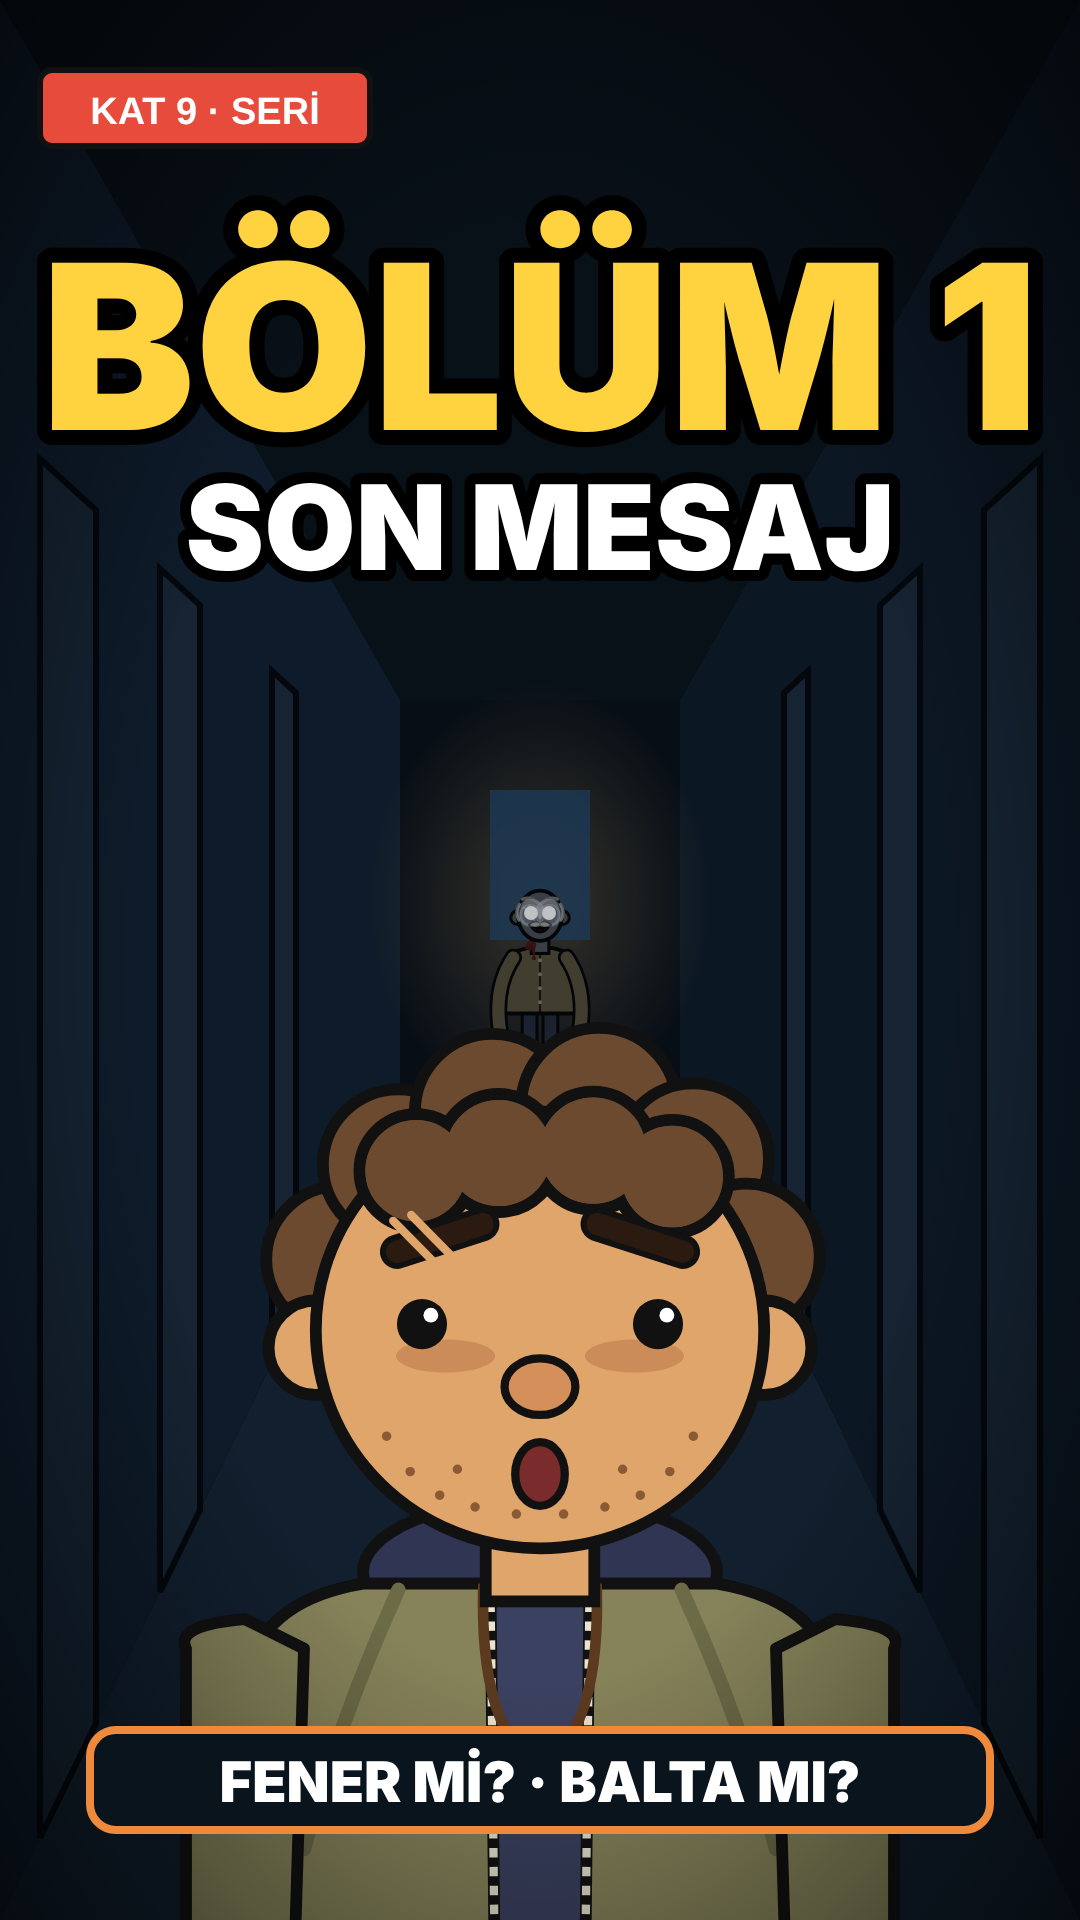
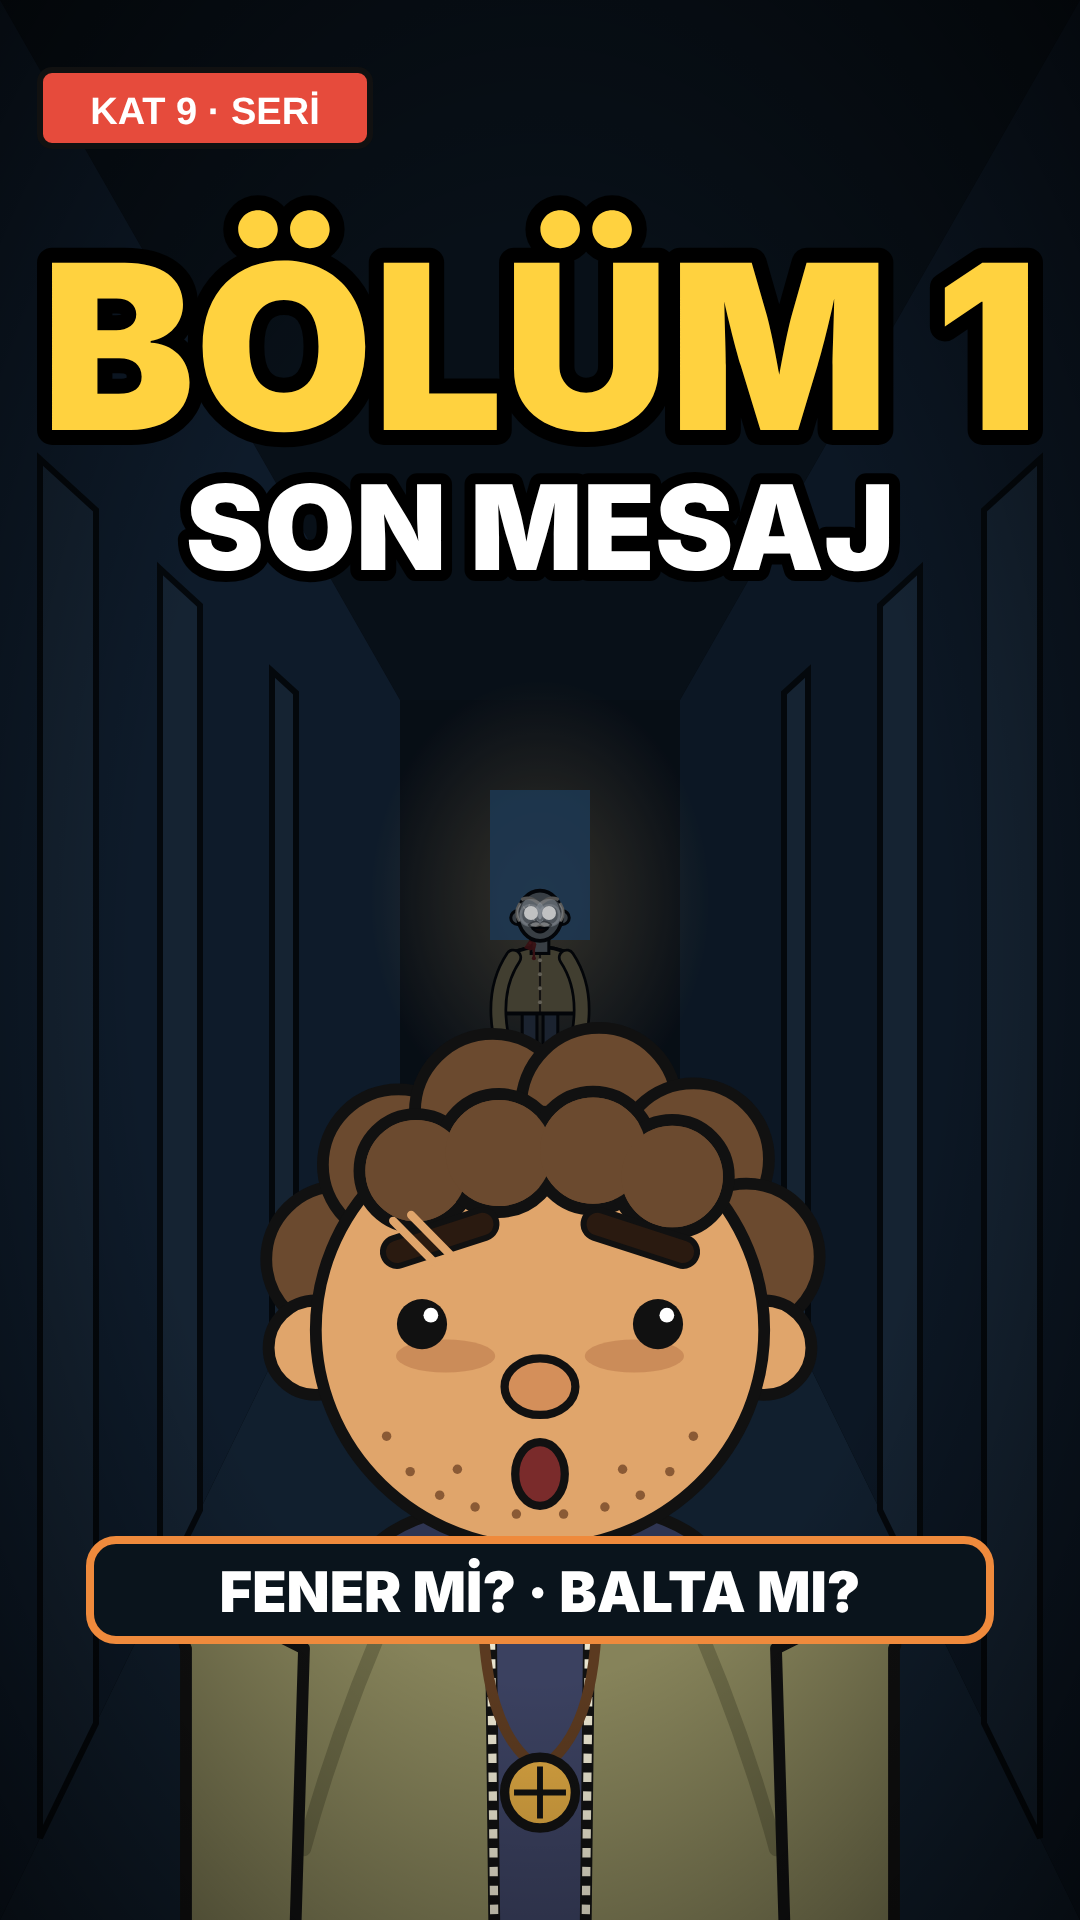
Kanal kurulumu: profil/YouTube kapağı görselleri, biyografi ve gönderi metinleri, 24 saat oy akışı, oy sayım aracı (sablon/oy_say.py), kapakta seçim kutusu 3:4 kırpmaya alındı
Claude-Session: https://claude.ai/code/session_01LL2aFcoaTdc2rLbhc4og9o

Changed region(s): [[0.0611, 0.7812, 0.9472, 0.9688], [0.0611, 0.8125, 0.0917, 0.8438]]

diff --git a/prototip/kanal-gorselleri.html b/prototip/kanal-gorselleri.html
@@ -1,0 +1,41 @@
+<!doctype html>
+<html lang="tr"><head><meta charset="utf-8"><title>Kat 9 Kanal Görselleri</title>
+<style>
+html,body{margin:0;background:#000}svg{display:block}
+.deniz[data-mood="scared"] .d-browL{transform-origin:-85px -58px;transform:translateY(-20px) rotate(-18deg)}
+.deniz[data-mood="scared"] .d-browR{transform-origin:85px -58px;transform:translateY(-20px) rotate(18deg)}
+.deniz[data-mood="scared"] .d-eyes{transform-origin:0 -5px;transform:scale(1.25)}
+.logo{font-family:Impact,'Arial Black',system-ui,sans-serif;font-weight:900;text-anchor:middle;paint-order:stroke;stroke:#000;stroke-linejoin:round}
+</style></head><body>
+<!-- Profil: 1080x1080 (daire kırpması için içerik merkezde) -->
+<svg id="profil" width="1080" height="1080" viewBox="0 0 1080 1080" xmlns="http://www.w3.org/2000/svg">
+<defs><radialGradient id="pg" cx="50%" cy="45%" r="60%"><stop offset="0" stop-color="#25425e"/><stop offset="1" stop-color="#05090d"/></radialGradient></defs>
+<rect width="1080" height="1080" fill="url(#pg)"/>
+<g id="pd"></g>
+<rect x="250" y="800" width="580" height="150" rx="24" fill="#e64b3c" stroke="#000" stroke-width="12"/>
+<text class="logo" x="540" y="912" font-size="120" fill="#fff" stroke-width="0">KAT 9</text>
+</svg>
+<!-- YouTube kapak: 2560x1440 (güvenli alan ortada 1546x423) -->
+<svg id="banner" width="2560" height="1440" viewBox="0 0 2560 1440" xmlns="http://www.w3.org/2000/svg" style="margin-top:20px">
+<defs><radialGradient id="wg"><stop offset="0" stop-color="#ffd58a" stop-opacity=".55"/><stop offset="1" stop-color="#ffd58a" stop-opacity="0"/></radialGradient></defs>
+<rect width="2560" height="1440" fill="#05090d"/>
+<g transform="translate(740 -240) scale(1.0)"><g id="bcor"></g><g id="bahmet" style="filter:brightness(.6)"></g></g>
+<rect width="2560" height="1440" fill="#05090d" opacity=".45"/>
+<g id="bd"></g>
+<text class="logo" x="1280" y="700" font-size="230" fill="#ffd23f" stroke-width="30">KAT 9</text>
+<text class="logo" x="1280" y="805" font-size="64" fill="#fff" stroke-width="14">SEN SEÇ, HİKÂYE DEVAM ETSİN</text>
+</svg>
+<script src="../sablon/sisli.js"></script><script src="../sablon/rigs.js"></script>
+<script>
+const ns='http://www.w3.org/2000/svg';function el(p,n,a){const e=document.createElementNS(ns,n);for(const k in a)e.setAttribute(k,a[k]);p.appendChild(e);return e}
+const $=id=>document.getElementById(id);
+function corridor(g){const xl=u=>400*u,yt=u=>700*u,yb=u=>1920-820*u;
+ el(g,'polygon',{points:'0,0 1080,0 680,700 400,700',fill:'#0a131c'});el(g,'polygon',{points:'0,1920 1080,1920 680,1100 400,1100',fill:'#16273a'});
+ el(g,'polygon',{points:'0,0 400,700 400,1100 0,1920',fill:'#122234'});el(g,'polygon',{points:'1080,0 680,700 680,1100 1080,1920',fill:'#0f1d2c'});el(g,'rect',{x:400,y:700,width:280,height:400,fill:'#091019'});
+ el(g,'ellipse',{cx:540,cy:900,rx:170,ry:220,fill:'url(#wg)',opacity:.45});
+ [[.1,.24],[.4,.5],[.68,.74]].forEach(([u1,u2])=>{[-1,1].forEach(side=>{const X=u=>side<0?xl(u):1080-xl(u),top=u=>yb(u)-.78*(yb(u)-yt(u));
+  el(g,'polygon',{points:`${X(u1)},${top(u1)} ${X(u2)},${top(u2)} ${X(u2)},${yb(u2)} ${X(u1)},${yb(u1)}`,fill:'#1b2c3f',stroke:'#05090d','stroke-width':6})})})}
+corridor($('bcor'));Sisli.draw($('bahmet'),Sisli.presets.ahmet,540,1090,.34);
+const p=Rigs.deniz($('pd'),{x:540,y:560,s:1.0,mood:'scared'});Rigs.mouth(p,3);
+const b=Rigs.deniz($('bd'),{x:560,y:1060,s:1.05,mood:'scared'});Rigs.mouth(b,3);
+</script></body></html>

diff --git a/prototip/kapak.html b/prototip/kapak.html
@@ -21,7 +21,7 @@
 <g id="chip"><rect x="40" y="70" width="330" height="76" rx="12" fill="#e64b3c" stroke="#111" stroke-width="6"/><text x="205" y="124" font-family="Impact,'Arial Black',sans-serif" font-weight="900" font-size="38" fill="#fff" text-anchor="middle">KAT 9 · SERİ</text></g>
 <text class="big" x="540" y="430">BÖLÜM 1</text>
 <text class="sub" x="540" y="570">SON MESAJ</text>
-<g transform="translate(0 1800)"><rect x="90" y="-70" width="900" height="100" rx="26" fill="#0a141c" stroke="#ef8a3c" stroke-width="8"/><text class="tag" x="540" y="2">FENER Mİ?  ·  BALTA MI?</text></g>
+<g transform="translate(0 1610)"><rect x="90" y="-70" width="900" height="100" rx="26" fill="#0a141c" stroke="#ef8a3c" stroke-width="8"/><text class="tag" x="540" y="2">FENER Mİ?  ·  BALTA MI?</text></g>
 </svg>
 <script src="../sablon/sisli.js"></script><script src="../sablon/rigs.js"></script>
 <script>

diff --git a/sablon/oy_say.py b/sablon/oy_say.py
@@ -1,0 +1,34 @@
+#!/usr/bin/env python3
+"""Yorumlardan A/B oylarını sayar ve degiskenler.json'a yazar.
+Kullanım: python3 sablon/oy_say.py 01 yorumlar/*.txt [--kaydet]
+Her .txt dosyası: bir platformun yorumları, her satır bir yorum (kopyala-yapıştır).
+Dosya adı platformu belirtir: instagram.txt, tiktok.txt, youtube.txt. Anket sonuçları için: anket-instagram.txt içine "A=120 B=95" yaz.
+Kural: Kişi başı tek oy sayılamaz (kullanıcı adı yoksa); satır başı bir oy. Hem A hem B içeren satır sayılmaz."""
+import sys,re,json,pathlib
+K=pathlib.Path(__file__).resolve().parent.parent
+bol=sys.argv[1];dosyalar=[a for a in sys.argv[2:] if not a.startswith('--')]
+def oy(satir):
+    t=satir.lower().strip()
+    if not t:return None
+    tok=set(re.findall(r'[\wçğıöşü]+|🔦|🪓',t))
+    a=any(k in tok for k in ('a','fener','🔦'));b=any(k in tok for k in ('b','balta','🪓'))
+    return 'A' if a and not b else 'B' if b and not a else None
+toplam={'A':0,'B':0};detay={}
+for f in dosyalar:
+    p=pathlib.Path(f);ad=p.stem;txt=p.read_text(encoding='utf-8')
+    if ad.startswith('anket'):
+        m={k:int(v) for k,v in re.findall(r'([AB])\s*=\s*(\d+)',txt)};d={'A':m.get('A',0),'B':m.get('B',0)}
+    else:
+        d={'A':0,'B':0}
+        for s in txt.splitlines():
+            r=oy(s)
+            if r:d[r]+=1
+    detay[ad]=d;toplam['A']+=d['A'];toplam['B']+=d['B']
+for k,v in detay.items():print(f'{k:20s} A={v["A"]:5d}  B={v["B"]:5d}')
+print(f'{"TOPLAM":20s} A={toplam["A"]:5d}  B={toplam["B"]:5d}')
+kazanan='A' if toplam['A']>toplam['B'] else 'B' if toplam['B']>toplam['A'] else 'BERABERE'
+print('Kazanan:',kazanan)
+if '--kaydet' in sys.argv:
+    D=K/'story'/'degiskenler.json';v=json.load(open(D))
+    v.setdefault('oylar',{})[f'bolum-{bol}']={'detay':detay,'toplam':toplam,'kazanan':kazanan}
+    json.dump(v,open(D,'w'),ensure_ascii=False,indent=2);print('kaydedildi:',D)

diff --git a/story/kanallar/kurulum.md b/story/kanallar/kurulum.md
@@ -1,0 +1,86 @@
+# Kat 9: kanal kurulumu ve Bölüm 1 yayını
+
+> Hesapları sen açarsın: telefon ve e-posta doğrulaması gerekiyor, ben açamam. Aşağıdakileri kopyala-yapıştır kullan.
+> Platformlar: Instagram Reels, TikTok, YouTube Shorts. Oy süresi: **24 saat**.
+
+## 1. Kimlik (üç platformda aynı)
+- **Görünen ad:** Kat 9
+- **Kullanıcı adı (sırayla dene, uygun olanı al; üçünde aynı olsun):**
+  1. `kat9.hikaye`
+  2. `kat9seri`
+  3. `kat9.tr`
+  4. `kat9hikayesi`
+
+  YouTube'da nokta yok, `@kat9hikaye` gibi yazılır.
+- **Profil fotoğrafı:** `story/kanallar/profil.png` (1080x1080, daire kırpmasında güvenli)
+- **YouTube kanal kapağı:** `story/kanallar/youtube-kapak.png` (2560x1440, yazı güvenli alanda)
+- **Bölüm kapağı:** `story/bolum-01/kapak.png`. Seçim kutusu, profil ızgarasındaki 3:4 kırpmaya girecek şekilde yukarı alındı.
+
+## 2. Biyografi
+**Instagram (150 karakter):**
+> Sis şehri yuttu. Deniz, kardeşi Ela'ya ulaşmalı.
+> Her bölüm sonunda SEN seçersin 🔦🪓
+> Yeni bölüm: oylar kapanınca
+
+**TikTok (80 karakter):**
+> Sis şehri yuttu. Her bölümü sen seçersin 🔦🪓
+
+**YouTube (açıklama):**
+> Kat 9 interaktif bir animasyon dizisi. Üç gün önce şehre gri bir sis çöktü. Sisi soluyanlar dönüşüyor. 19 yaşındaki Deniz, şehrin öbür ucundaki kardeşi Ela'ya ulaşmaya çalışıyor.
+> Her bölümün sonunda iki seçenek var. Yorumlarda en çok oyu alan seçenek bir sonraki bölümü belirler.
+
+## 3. Bölüm 1 gönderisi
+**Video:** `story/bolum-01/cikti.mp4` (109 sn, 9:16)
+- Reels ve Shorts 3 dakikaya, TikTok 10 dakikaya kadar kabul ediyor, süre sorun değil.
+- Müzik ve efektler kodla üretildi, telif sorunu yok.
+
+**Başlık/açıklama (üçünde aynı):**
+> KAT 9 · Bölüm 1: Son Mesaj
+> Sisi soluyanlar dönüşüyor. Kardeşim şehrin öbür ucunda. Önce bu koridoru geçmeliyim.
+> 🔦 A) FENER mi, 🪓 B) BALTA mı? Yorumlara yaz, çoğunluk seçer.
+> Koridordaki o şey… sence kim?
+> ⏳ Oylama 24 saat açık. Bölüm 2 seçilen yoldan devam edecek.
+>
+> #kat9 #interaktifhikaye #animasyon #zombi #hayattakalma #sendeseç #hikaye
+
+YouTube Shorts başlığı (100 karakter): `KAT 9 · Bölüm 1: Son Mesaj | Fener mi, balta mı? Sen seç #shorts`
+
+**Sabitlenmiş yorum (kendi yorumunu yazıp sabitle):**
+> 🗳 OY: sadece A ya da B yaz (FENER / BALTA da olur).
+> 🔦 A = Fener (Sisli seni fark edebilir)
+> 🪓 B = Balta (gürültü diğerlerini çekebilir)
+> Teorin varsa ayrı yorum yaz: koridordaki kim?
+
+**Ek oy kanalları:**
+- **Instagram Story:** videoyu Story'de paylaş ve "Anket" çıkartması ekle. Soru: "Deniz ne yapmalı?" Seçenekler: "🔦 Fener" / "🪓 Balta".
+- **YouTube:** Shorts'a yorumla oy. Topluluk sekmesi açılırsa aynı anket orada da yapılır.
+
+**Yükleme ayarları:**
+- **Yapay zekâ etiketi:** "AI ile üretildi" / "AI-generated content" seçeneğini aç. Sesler yapay zekâ ile üretildi. TikTok ve YouTube bunu istiyor, açmak güvenli.
+- **Kapak:** `kapak.png` dosyasını kapak görseli olarak yükle. Reels'te "Kapak düzenle" → "Film rulosundan ekle".
+- **Kitle:** YouTube'da "Çocuklar için yapılmadı" seç. İçerik korku teması taşıyor.
+- **Önizleme testi:** Yayından önce Instagram'da "Sadece ben" olarak yükleyip güvenli alanı kontrol et (`sablon/guvenli-alan.md`).
+
+## 4. 24 saatlik akış
+| Zaman | İş |
+|---|---|
+| 0. saat | Üç platformda aynı saatte yayınla. Öneri: hafta içi 19:00–21:00. Yorumu sabitle, Story anketini aç. |
+| 0–2. saat | İlk yorumlara cevap ver (etkileşim algoritmayı besler). Teori yazanlara "🤔 olabilir…" gibi ipucu vermeyen cevaplar. |
+| 12. saat | Story: "Oylar şu an başa baş! 12 saat kaldı". Sonucu açıklama, sadece hatırlat. |
+| 24. saat | Oyları say (madde 5). Story ve sabitlenmiş yoruma sonucu yaz: "Kazanan: 🔦 FENER. Bölüm 2 geliyor." |
+| 24. saat sonrası | Bölüm 2 seçilen dalda üretilir: senaryo, ses (kredi onayı), önizleme, render. Gerçekçi süre 1–2 gün. Bunu sonuç duyurusunda söyle ("Bölüm 2 cuma"). |
+
+Not: 24 saatlik oy süresi, Bölüm 2 yayına çıkana kadar boşluk bırakır. Takvimi duyurmak izleyiciyi bekletir.
+
+## 5. Oy sayımı
+1. Her platformun yorumlarını kopyala ve ayrı dosyalara yapıştır: `yorumlar/instagram.txt`, `yorumlar/tiktok.txt`, `yorumlar/youtube.txt`. Her satır bir yorum.
+2. Story anketi sonucunu `yorumlar/anket-instagram.txt` dosyasına `A=120 B=95` biçiminde yaz.
+3. Dosyaları bana gönder. Ben `python3 sablon/oy_say.py 01 yorumlar/*.txt --kaydet` ile sayarım. Sonuç `story/degiskenler.json` dosyasına yazılır.
+
+Kurallar:
+- "A", "fener" ve 🔦 A sayılır. "B", "balta" ve 🪓 B sayılır.
+- Hem A hem B içeren yorum sayılmaz.
+- Kullanıcı adı olmadan aynı kişinin tekrarlı oyu ayıklanamaz.
+
+## 6. Ölçüm (her bölümde kaydet)
+İzlenme, ortalama izlenme süresi / tamamlama oranı, yorum sayısı, oy sayısı, paylaşım, kaydetme, profil ziyareti, takipçi artışı. Başarı ölçütü: **yorum ve oy katılımı**.
